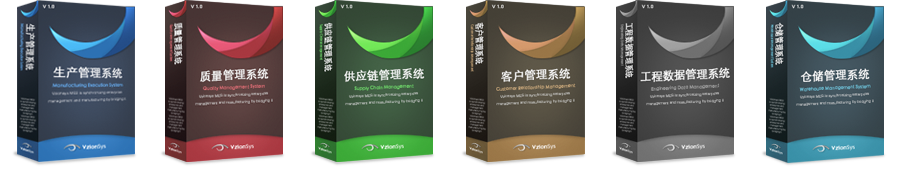
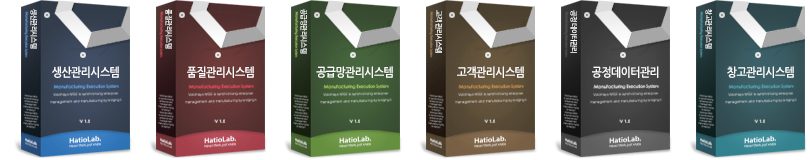
제품이미지 변경

diff --git a/app/assets/stylesheets/site.css.scss b/app/assets/stylesheets/site.css.scss
@@ -35,12 +35,12 @@ a{color:#3a699a;}
 .cbp-hsmenu-wrapper .mold{background-position:0px -235px;}
 .cbp-hsmenu-wrapper .food{background-position:0px -320px;}
 .cbp-hsmenu-wrapper .logistic{background-position:-2px -400px;}
-.cbp-hsmenu-wrapper .prodname{background:image-url('site/product_boxs.png') 3px 0 no-repeat;background-size:700px 115px;width:130px;display:inline-block;padding-top:120px;color:#fff;font-size:15px;font-weight:bold;text-align:center;}
-.cbp-hsmenu-wrapper .qms{background-position:-112px 0;}
-.cbp-hsmenu-wrapper .scm{background-position:-230px 0;}
-.cbp-hsmenu-wrapper .crm{background-position:-348px 0;}
-.cbp-hsmenu-wrapper .edm{background-position:-465px 0;}
-.cbp-hsmenu-wrapper .wms{background-position:-580px 0;}
+.cbp-hsmenu-wrapper .prodname{background:image-url('site/product_boxs.png') 3px 0 no-repeat;background-size:675px 115px;width:130px;display:inline-block;padding-top:120px;color:#fff;font-size:15px;font-weight:bold;text-align:center;}
+.cbp-hsmenu-wrapper .qms{background-position:-109px 0;}
+.cbp-hsmenu-wrapper .scm{background-position:-221px 0;}
+.cbp-hsmenu-wrapper .crm{background-position:-334px 0;}
+.cbp-hsmenu-wrapper .edm{background-position:-446px 0;}
+.cbp-hsmenu-wrapper .wms{background-position:-558px 0;}
 .cbp-hsmenu-wrapper a{text-decoration:none;}
 .brand{background:image-url('site/hatiolab.png') no-repeat;position:absolute;top:13px;z-index:10000;width:145px;height:30px;}
 .cbp-hsinner{position:relative;z-index:100;padding-left:300px;text-align:right;}/* 100% width bar for menu */
@@ -140,11 +140,11 @@ a{color:#3a699a;}
 .prod .content > .innerbox{padding:25px 0;}
 .subContentWrap{width:740px;font-size:14px;line-height:1.5;}
 .mes .prodImg{background:image-url('site/product_boxs.png') -7px 0 no-repeat;width:130px;height:175px;margin:0 20px 0 0;display:inline-block;float:left;}
-.qms .prodImg{background:image-url('site/product_boxs.png') -155px 0 no-repeat;width:130px;height:175px;margin:0 20px 0 0;display:inline-block;float:left;}
-.scm .prodImg{background:image-url('site/product_boxs.png') -305px 0 no-repeat;width:130px;height:175px;margin:0 20px 0 0;display:inline-block;float:left;}
-.crm .prodImg{background:image-url('site/product_boxs.png') -460px 0 no-repeat;width:130px;height:175px;margin:0 20px 0 0;display:inline-block;float:left;}
-.edm .prodImg{background:image-url('site/product_boxs.png') -605px 0 no-repeat;width:130px;height:175px;margin:0 20px 0 0;display:inline-block;float:left;}
-.wms .prodImg{background:image-url('site/product_boxs.png') -755px 0 no-repeat;width:130px;height:175px;margin:0 20px 0 0;display:inline-block;float:left;}
+.qms .prodImg{background:image-url('site/product_boxs.png') -142px 0 no-repeat;width:130px;height:175px;margin:0 20px 0 0;display:inline-block;float:left;}
+.scm .prodImg{background:image-url('site/product_boxs.png') -277px 0 no-repeat;width:130px;height:175px;margin:0 20px 0 0;display:inline-block;float:left;}
+.crm .prodImg{background:image-url('site/product_boxs.png') -412px 0 no-repeat;width:130px;height:175px;margin:0 20px 0 0;display:inline-block;float:left;}
+.edm .prodImg{background:image-url('site/product_boxs.png') -547px 0 no-repeat;width:130px;height:175px;margin:0 20px 0 0;display:inline-block;float:left;}
+.wms .prodImg{background:image-url('site/product_boxs.png') 100% 0 no-repeat;width:130px;height:175px;margin:0 20px 0 0;display:inline-block;float:left;}
 .greenText{display:block;padding:10px 0;font-size:18px;color:#6c9e01;}
 .cyanText{display:block;padding:10px 0;font-size:18px;color:#0f7f9b;}
 .subContentWrap img{clear:both;margin:auto;margin-bottom:20px;display:block;}
